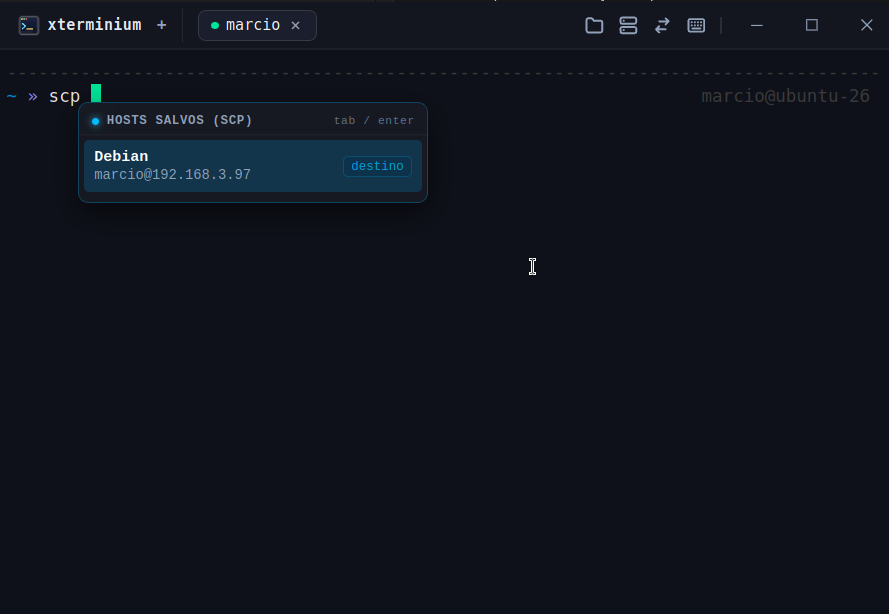
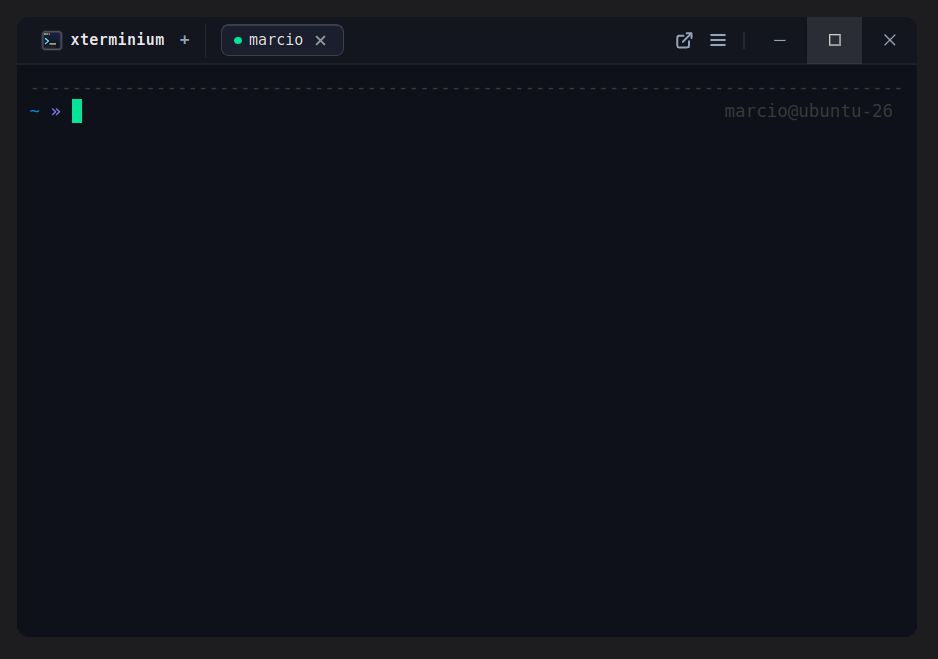
adicinando prints

diff --git a/src/features/settings/modals/ShortcutsModal.svelte b/src/features/settings/modals/ShortcutsModal.svelte
@@ -68,6 +68,7 @@
       { id: 'paste', label: 'Colar', defaultKey: configStore.shortcuts.paste },
       { id: 'selectAll', label: 'Selecionar Tudo', defaultKey: configStore.shortcuts.selectAll || 'Ctrl+Shift+A' },
       { id: 'autocomplete', label: 'Autocomplete VPS', defaultKey: configStore.shortcuts.autocomplete || 'Ctrl+Space' },
+      { id: 'directoryAutocomplete', label: 'Autocomplete Diretórios', defaultKey: configStore.shortcuts.directoryAutocomplete || 'Shift+Space' },
       { id: 'stop', label: 'Parar Terminal (SIGINT)', defaultKey: configStore.shortcuts.stop },
       { id: 'newTab', label: 'Nova Aba', defaultKey: configStore.shortcuts.newTab },
       { id: 'newWindow', label: 'Nova Janela', defaultKey: configStore.shortcuts.newWindow },

diff --git a/src/features/terminal/components/TerminalView.svelte b/src/features/terminal/components/TerminalView.svelte
@@ -73,7 +73,7 @@
         onNewTab();
       },
       newWindow: () => {
-        invoke('open_new_window').catch(console.error);
+        invoke('new_window').catch(console.error);
       },
       clear: () => {
         term.clear();

diff --git a/README.md b/README.md
@@ -28,6 +28,22 @@
   <img src="./screenshots/shortcuts_modal.png" alt="Atalhos de Teclado" width="32%" />
 </p>
 
+<p align="center">
+  <b>Comandos &amp; Autocomplete VPS Configurável</b><br/>
+  <img src="./screenshots/command_triggers.png" alt="Comandos & Autocomplete VPS" width="600px" />
+</p>
+
+<p align="center">
+  <b>Sistema de Temas &amp; Aparência</b><br/>
+  <img src="./screenshots/theme_dark.png" alt="Temas - Default Dark" width="49%" />
+  <img src="./screenshots/theme_light.png" alt="Temas - Light Mode" width="49%" />
+</p>
+
+<p align="center">
+  <b>Formas, Arredondamento &amp; Elevação</b><br/>
+  <img src="./screenshots/theme_shapes.png" alt="Temas - Formas e Arredondamento" width="600px" />
+</p>
+
 ---
 
 ## 🎨 Como obter o mesmo visual dos prints
